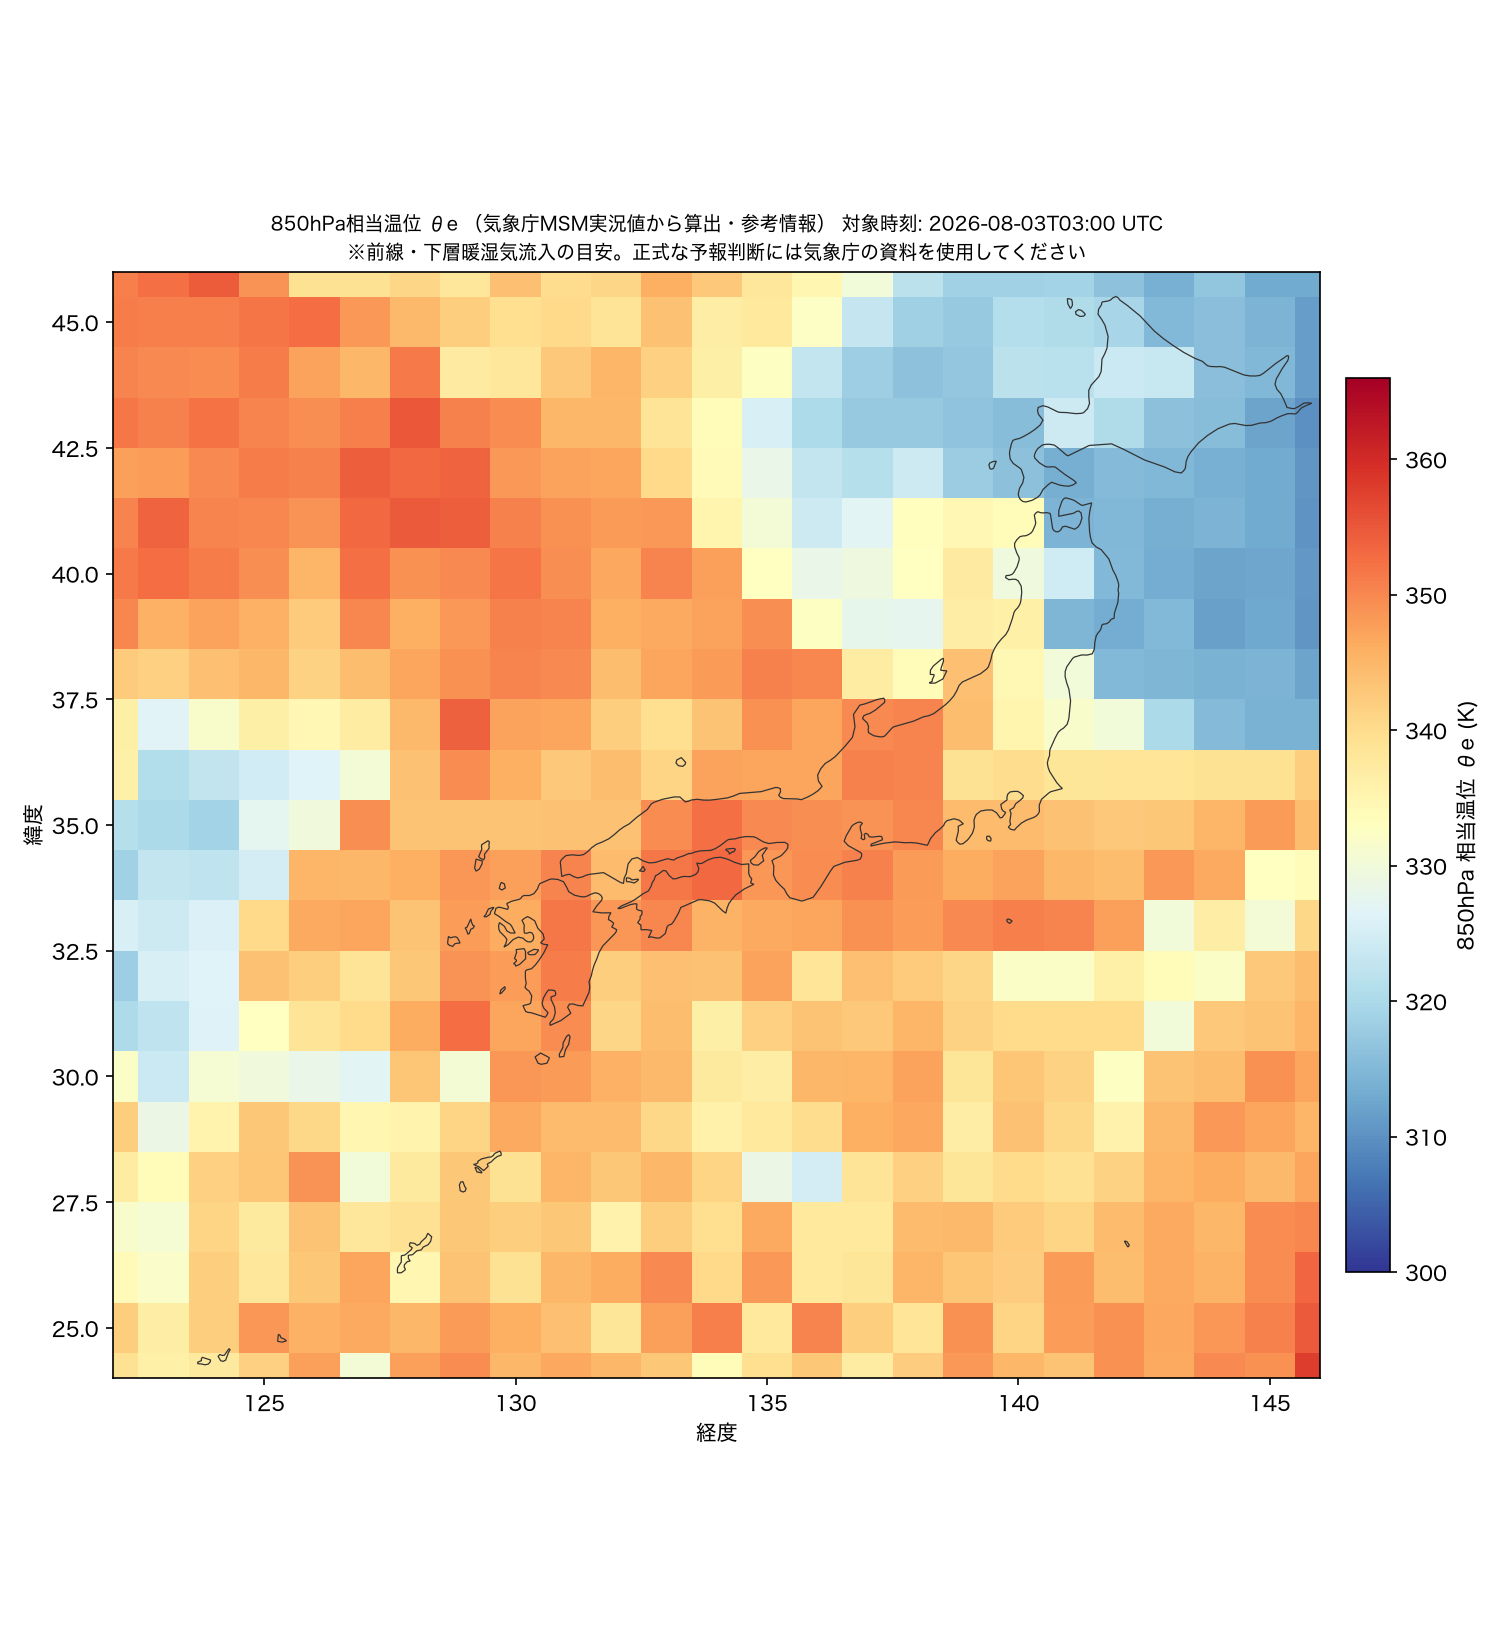
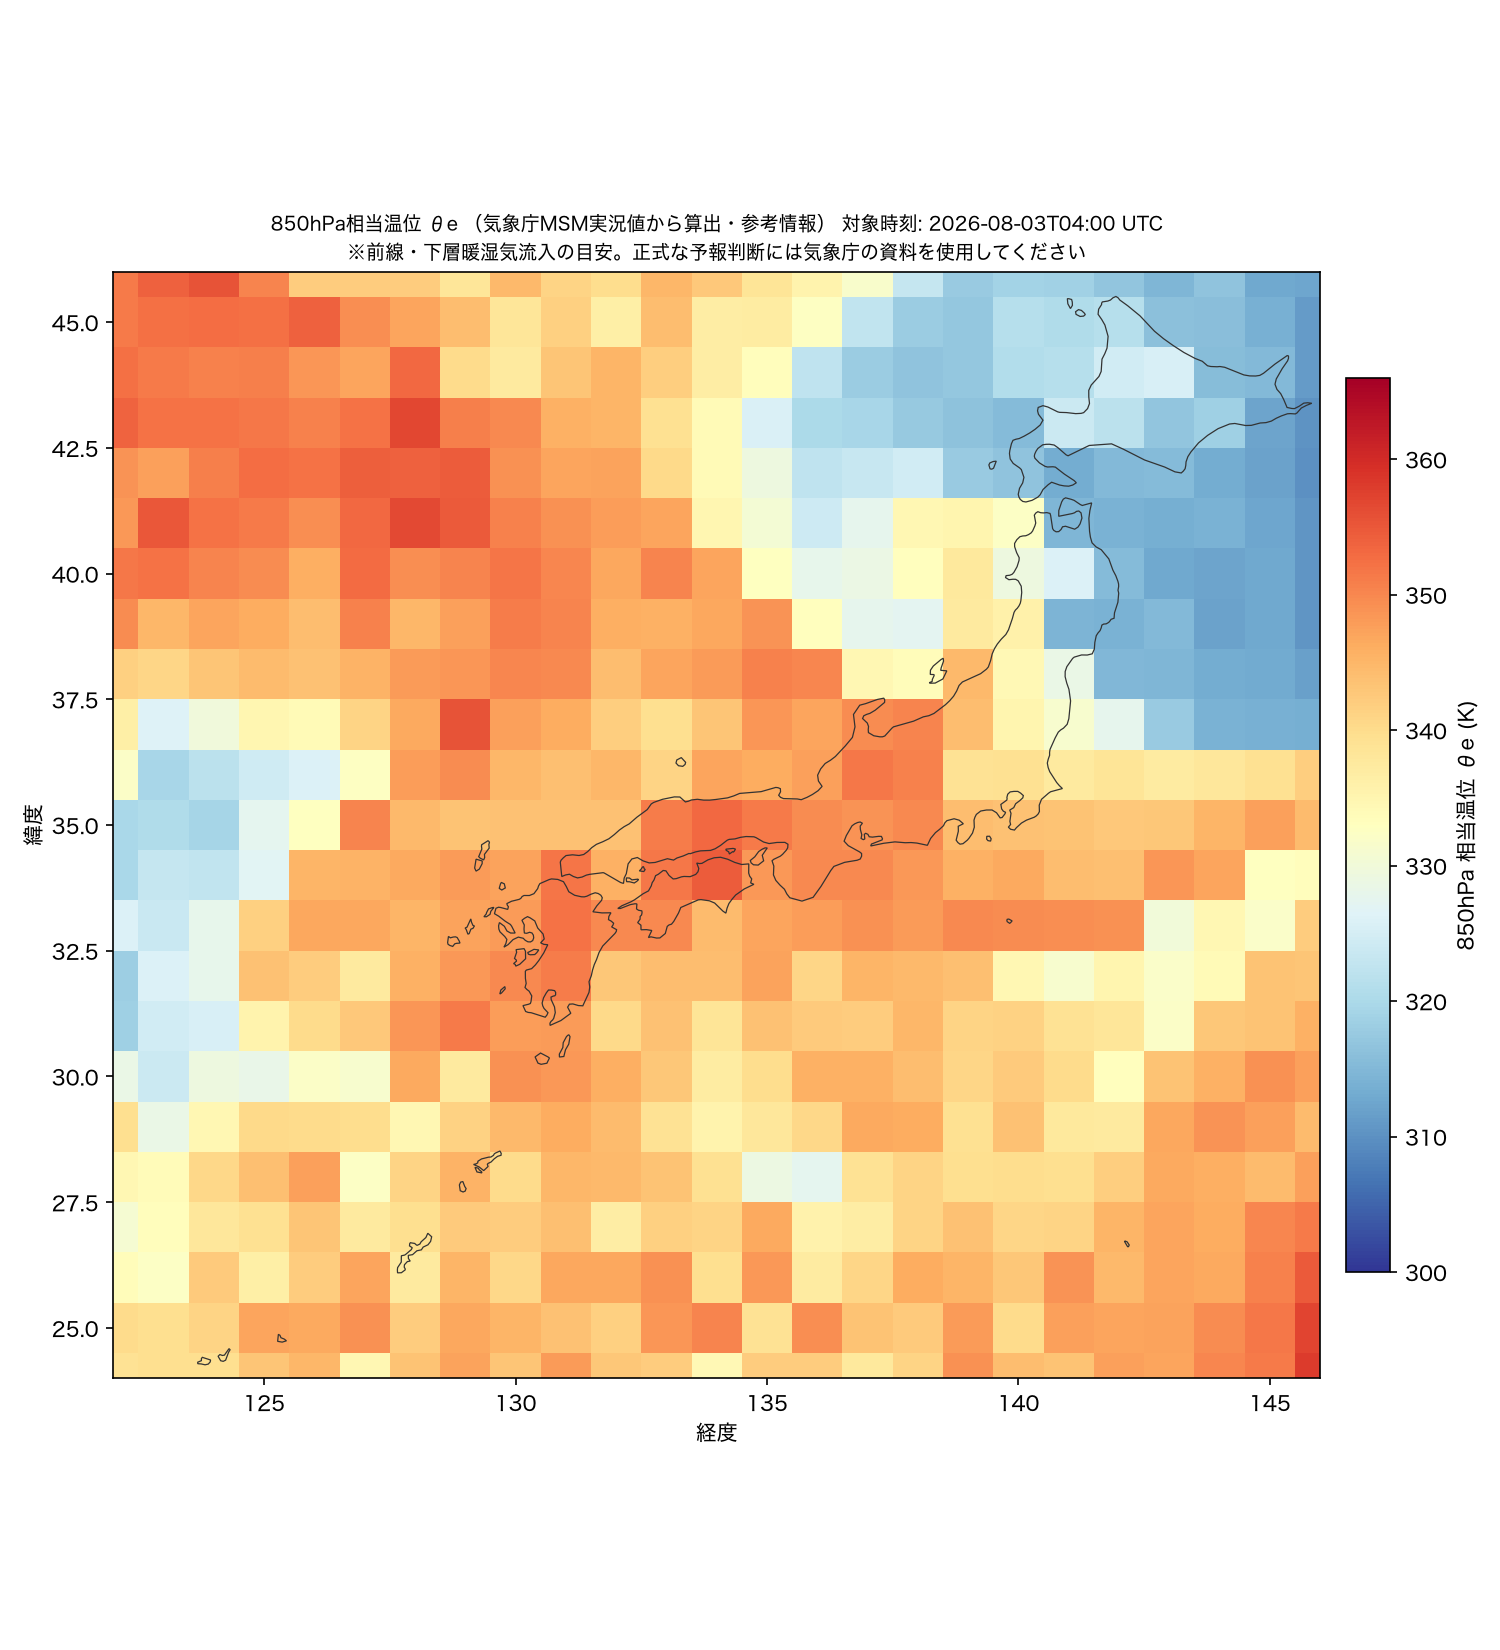
Update VMC map

diff --git a/index.html b/index.html
@@ -3,7 +3,7 @@
 <head>
 <meta charset="utf-8">
 <meta name="viewport" content="width=device-width, initial-scale=1">
-<title>VFR VMC 維持可否マップ (対象時刻: 2026-08-03T03:00 UTC)</title>
+<title>VFR VMC 維持可否マップ (対象時刻: 2026-08-03T04:00 UTC)</title>
 <style>
   :root {
     --bg: #eef1f5; --surface: #ffffff; --text: #1b2530; --text-muted: #5b6b7d;
@@ -95,7 +95,7 @@
     <h1>VFR VMC 維持可否マップ</h1>
     <p class="subtitle">日本全国、地形と雲底の隙間からVMC(視認気象状態)を維持できるかを判定した参考マップです。v1簡易判定につき、実運航の判断には正式な気象情報を使用してください。</p>
     <div class="chips">
-      <span class="chip">気象予報 対象時刻 <b>2026-08-03T03:00 UTC</b></span>
+      <span class="chip">気象予報 対象時刻 <b>2026-08-03T04:00 UTC</b></span>
       <span class="chip">下層悪天予想図 有効時刻 <b>0300 UTC 03 Aug 2026</b></span>
     </div>
   </header>
